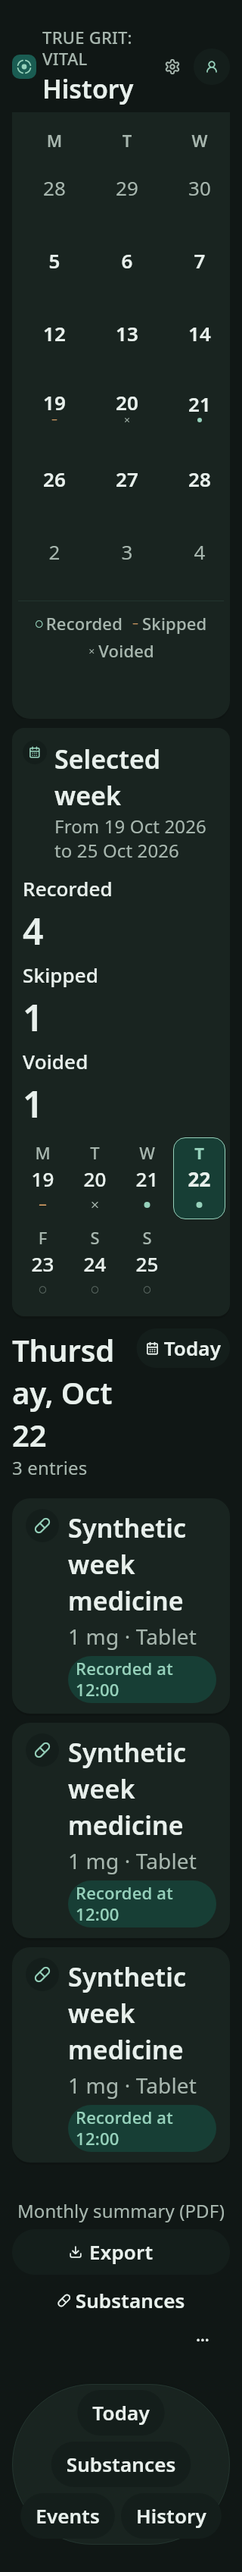
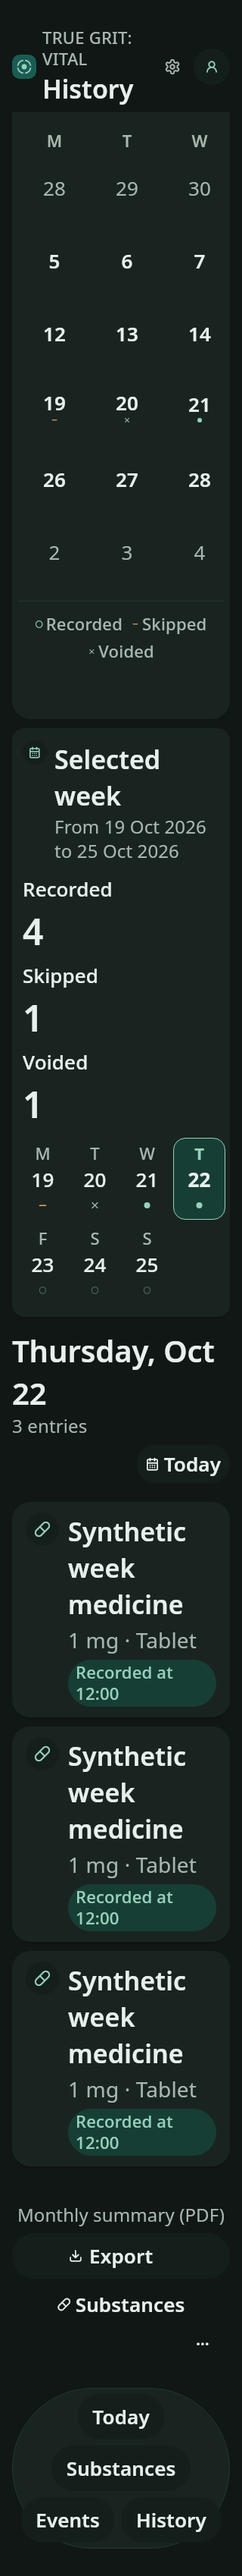
Give history dates room at large text sizes
- Stack the Today action at narrow widths or large text sizes.

- Refresh the narrow capture and verify the date/action layout in both themes.

diff --git a/lib/features/history/history_pages.dart b/lib/features/history/history_pages.dart
@@ -544,35 +544,31 @@ class _HistoryPageState extends ConsumerState<HistoryPage> {
           ),
       ],
       if (selected != null) ...[
-        Row(
-          crossAxisAlignment: CrossAxisAlignment.start,
-          children: [
-            Expanded(
-              child: Column(
-                crossAxisAlignment: CrossAxisAlignment.start,
-                children: [
-                  Semantics(
-                    header: true,
-                    child: Text(
-                      DateFormat(
-                        'EEEE, MMM d',
-                        Localizations.localeOf(context).toString(),
-                      ).format(selected!.calendarValue),
-                      style: VitalType.section,
-                    ),
+        LayoutBuilder(
+          builder: (context, constraints) {
+            final heading = Column(
+              crossAxisAlignment: CrossAxisAlignment.start,
+              children: [
+                Semantics(
+                  header: true,
+                  child: Text(
+                    DateFormat(
+                      'EEEE, MMM d',
+                      Localizations.localeOf(context).toString(),
+                    ).format(selected!.calendarValue),
+                    style: VitalType.section,
                   ),
-                  if (!state.loading && state.error == null)
-                    Text(
-                      state.next != null
-                          ? t.historyShowing(state.entries.length)
-                          : t.screenHistoryEntryCount(state.entries.length),
-                      style: StitchType.caption.copyWith(color: c.muted),
-                    ),
-                ],
-              ),
-            ),
-            const SizedBox(width: 8),
-            StitchButton(
+                ),
+                if (!state.loading && state.error == null)
+                  Text(
+                    state.next != null
+                        ? t.historyShowing(state.entries.length)
+                        : t.screenHistoryEntryCount(state.entries.length),
+                    style: StitchType.caption.copyWith(color: c.muted),
+                  ),
+              ],
+            );
+            final todayAction = StitchButton(
               compact: true,
               icon: LucideIcons.calendarDays,
               onPressed: () {
@@ -580,8 +576,30 @@ class _HistoryPageState extends ConsumerState<HistoryPage> {
                 selectDay(today, zone);
               },
               child: Text(t.today),
-            ),
-          ],
+            );
+            if (constraints.maxWidth < 340 ||
+                MediaQuery.textScalerOf(context).scale(16) > 21) {
+              return Column(
+                crossAxisAlignment: CrossAxisAlignment.stretch,
+                children: [
+                  heading,
+                  const SizedBox(height: 8),
+                  Align(
+                    alignment: AlignmentDirectional.centerEnd,
+                    child: todayAction,
+                  ),
+                ],
+              );
+            }
+            return Row(
+              crossAxisAlignment: CrossAxisAlignment.start,
+              children: [
+                Expanded(child: heading),
+                const SizedBox(width: 8),
+                todayAction,
+              ],
+            );
+          },
         ),
         const SizedBox(height: 16),
       ],

diff --git a/test/screen_history_week_capture_test.dart b/test/screen_history_week_capture_test.dart
@@ -10,6 +10,7 @@ import 'package:true_grit_vital/app/appearance.dart';
 import 'package:true_grit_vital/app/vital_app.dart';
 import 'package:true_grit_vital/data/record_store.dart';
 import 'package:true_grit_vital/features/history/history_pages.dart';
+import 'package:true_grit_vital/ui/stitch_ui.dart' show StitchButton;
 
 import 'history_mobile_ui_test.dart' show historyItem, historyRecord, today;
 import 'vital_app_test.dart' show appTest, launch, runIo, settle, waitForText;
@@ -152,6 +153,22 @@ void main() {
         tester.view.physicalSize = const Size(320, 740);
         addTearDown(tester.platformDispatcher.clearTextScaleFactorTestValue);
         await settle(tester);
+        final dateHeading = find.descendant(
+          of: find.byType(HistoryPage),
+          matching: find.textContaining(
+            RegExp(
+              r'^(Monday|Tuesday|Wednesday|Thursday|Friday|Saturday|Sunday), ',
+            ),
+          ),
+        );
+        final todayAction = find.descendant(
+          of: find.byType(HistoryPage),
+          matching: find.widgetWithText(StitchButton, 'Today'),
+        );
+        expect(
+          tester.getRect(todayAction).top,
+          greaterThanOrEqualTo(tester.getRect(dateHeading).bottom),
+        );
         final scrollable = tester.state<ScrollableState>(
           find
               .descendant(

diff --git a/docs/design/reviews/2026-10-22-next-five/history/README.md b/docs/design/reviews/2026-10-22-next-five/history/README.md
@@ -12,6 +12,9 @@ refresh or after a failed refresh. The focused regression fails without the fix
 and passes with it. Its selected-day fixture now uses a fixed Wednesday, avoiding
 Monday/midnight-dependent totals. The existing date-boundary, full indexed count,
 status semantics, retry, lock, narrow layout and calendar navigation checks pass.
+The selected-day heading now stacks its Today action at narrow widths or large
+text sizes, preserving whole date words. The updated narrow capture and focused
+layout assertion cover this arrangement.
 
 Verification: 39 focused history/calendar/motion checks passed, followed by the
 11-test weekly-summary run after stabilising its date fixture. Counts overlap.
